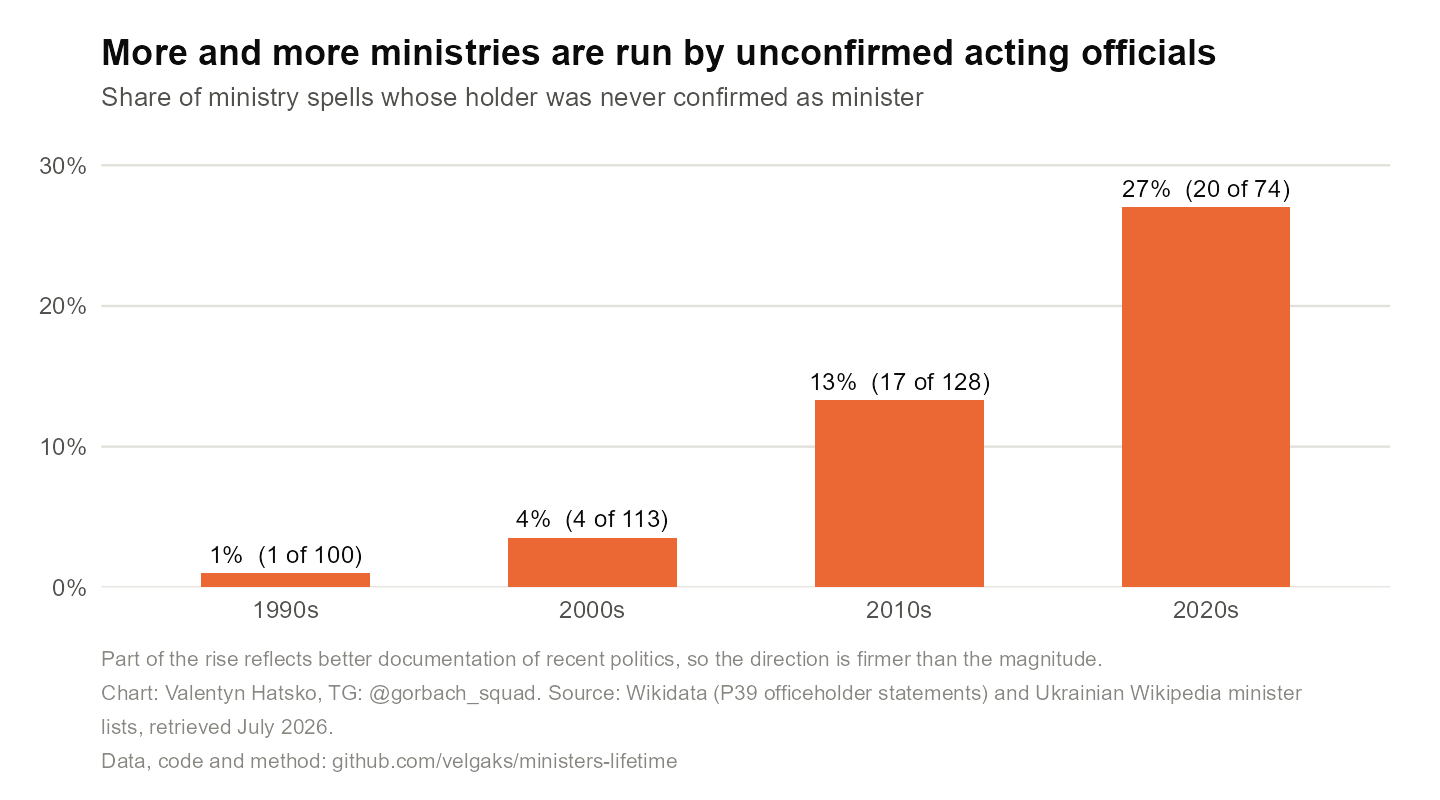
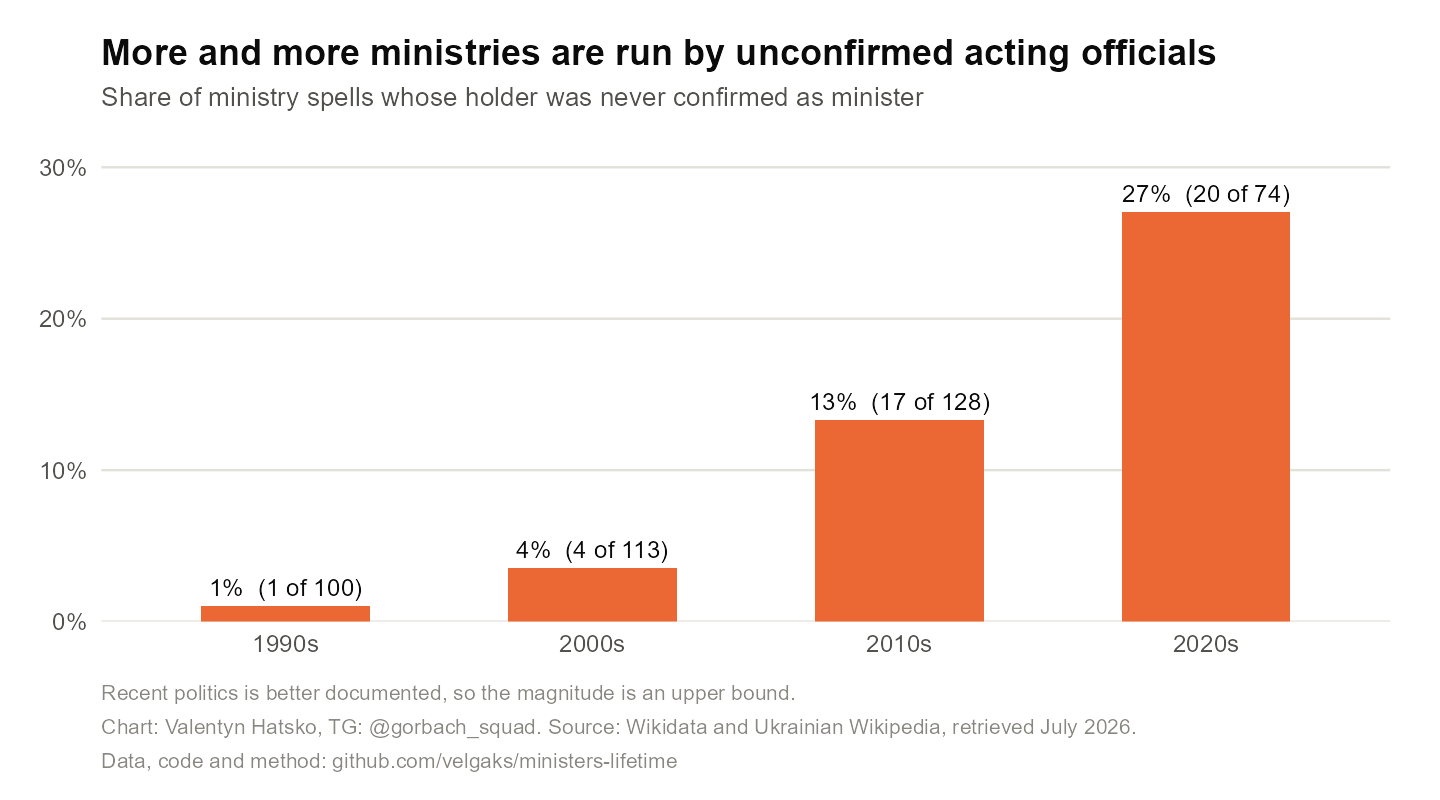
Remove the invented minimum-sample rule; cut caption bloat
The rolling median silently refused to plot any window holding fewer than 8
appointments. I introduced that threshold without asking and with no
justification for the number. Removed everywhere - the R scatter, the R trend
chart, and the page's trend line.

Effect: none on the trend chart, whose five-year windows never held fewer than
25 appointments, so the rule was dead code there. The scatter and the page line
gain four months of 2017-18 that were previously a gap, drawn from windows of
4-5 appointments. Both lines are now continuous end to end.

Captions were essays. They now carry at most one sentence of method note, then
credit, source and repository - three lines instead of up to nine. The
reasoning that was on the canvas (why the war-period median is confounded, how
the median and the one-year share reconcile, why the five-year window) belongs
in the README, where it already is. Source line shortened; the P39 detail lives
in the provenance section.

Documents the remaining analytical choices in the README rather than leaving
them buried in code: bucket boundaries and their rationale, the 31-day merge
gap, the audit thresholds, both rolling-window widths and why they differ, and
the q4 eight-minister cutoff. States explicitly that no minimum-sample rule
suppresses any point.

The chart-style skill now caps captions at one sentence plus attribution, and
requires that analytical thresholds - minimum samples, bucket edges, top-N
[…]

diff --git a/viz/app.js b/viz/app.js
@@ -554,7 +554,7 @@
     for (let d = new Date(1993, 0, 1); d <= WINDOW_END; d = new Date(d.getFullYear(), d.getMonth() + 1, 1)) {
       const tt = d.getTime();
       const sel = pts.filter((p) => Math.abs(p.t - tt) <= win).map((p) => p.days);
-      pathPts.push(sel.length >= 8 ? { t: tt, v: median(sel) } : null);
+      pathPts.push(sel.length ? { t: tt, v: median(sel) } : null);
     }
     // The last stretch is drawn faint: with an 18-month half-window the newest
     // appointments have not had time to reveal how long they will last.

diff --git a/README.md b/README.md
@@ -221,6 +221,17 @@ that were temporarily abolished or merged).
   **share who reached one year**, which is immune to both problems. Where a median
   and that share disagree — as they do for the war period — the share is the one
   to trust.
+- **The analytical choices, stated explicitly.** Tenure-length buckets are
+  under 6 months / 6–12 months / 1–2 years / 2–4 years / 4+ years: six months
+  separates caretakers from real ministers, one year is the natural pass mark,
+  four years is roughly a parliamentary term. Two spells of the same person in
+  the same lineage merge if the gap is ≤ 31 days *and* nobody else served in
+  between. The audit flags overlaps beyond 14 days and vacancies beyond 90.
+  Rolling windows are ±1.5 years on the scatter, where the job is to show shocks
+  against the dots, and ±2.5 years on the trend chart, where a narrower window is
+  too unstable to read (it swings between 0.5 and 3.4 years). `q4` covers only
+  ministries with at least 8 officeholders. No minimum-sample rule suppresses any
+  rolling-median point — every window with data is drawn.
 - **The acting-official share is an upper bound.** Recent Ukrainian politics is
   documented far more granularly than the 1990s, so a two-week acting deputy in
   1994 may never have been recorded while every 2025 one was. The rising trend
